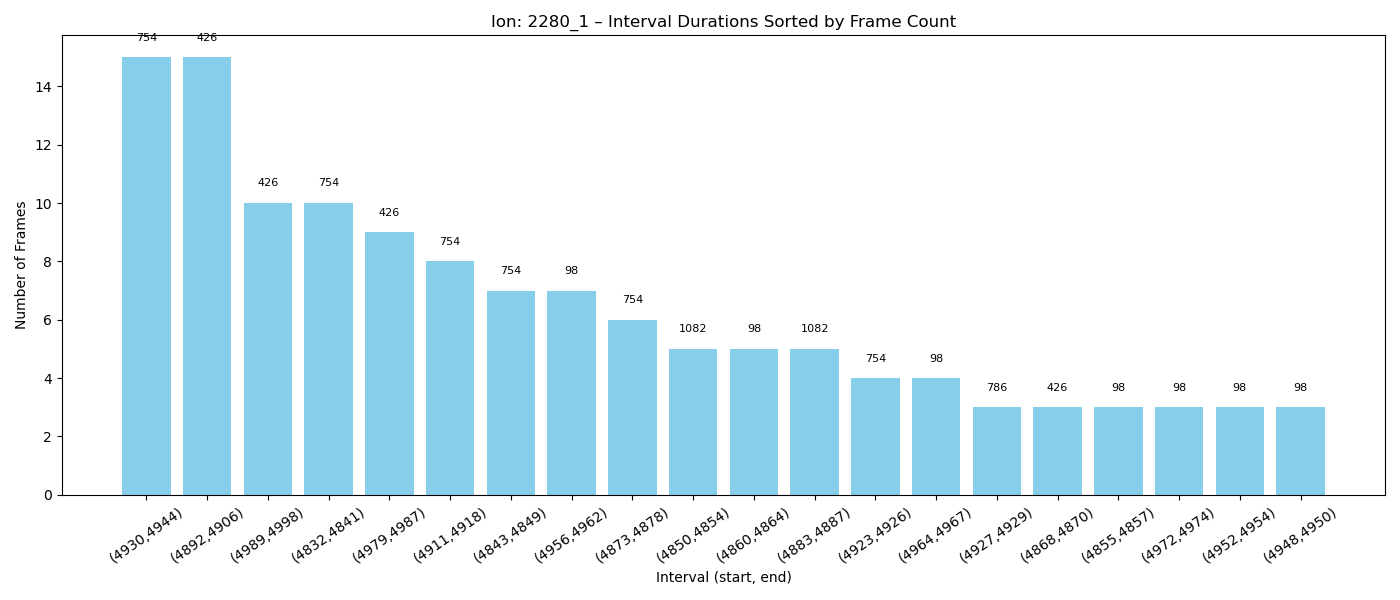
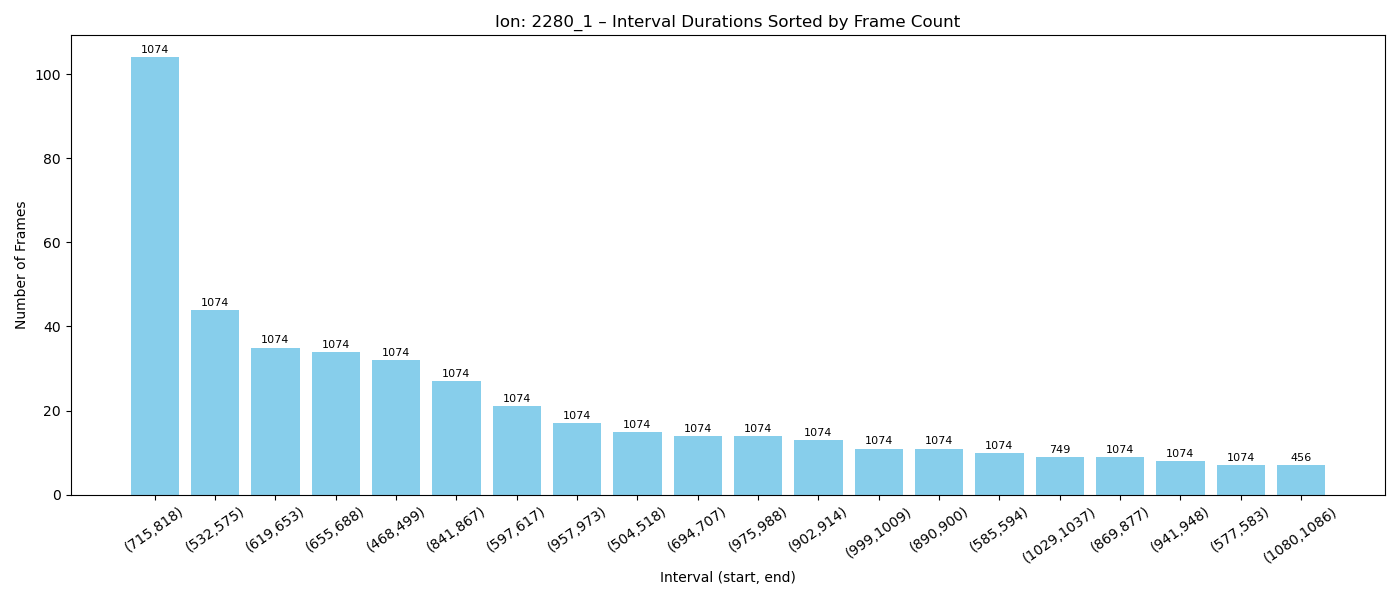
changes in ch2.json

diff --git a/analysis/ion_analysis.py b/analysis/ion_analysis.py
@@ -80,13 +80,13 @@ class IonPermeationAnalysis:
                     close_to_dipole = False
                     if channel_number == 2:
                         for resid in channel.lower_gate_residues:  # should be [130, 455, 780, 1105]
-                            # Select the five key atoms in the ASN side chain that contribute to electrostatic interactions
+                            # Select the five key atoms in the ASN side chain that contribute to electrostatic interactions CG OD1 ND2 HD21 HD22
                             asn_atoms = self.u.select_atoms(
-                                f"resid {resid} and name CG OD1 ND2 HD21 HD22"
+                                f"resid {resid}"
                             )
 
                             # Ensure that all 5 atoms are present (sometimes an atom might be missing in a corrupted frame)
-                            if len(asn_atoms) == 5:
+                            if len(asn_atoms) != 0:
                                 # Compute the distance between the ion and each ASN sidechain atom
                                 distances = np.linalg.norm(asn_atoms.positions - ion_pos, axis=1)
 
@@ -115,7 +115,8 @@ class IonPermeationAnalysis:
  #       if ion_id == 2231:
  #           print(f"'Frame: {frame}, channel_num: {channel_number}, upper_flag: {states[ion_id]['upper_flag']}, lower_flag: {states[ion_id]['lower_flag']}")
 
-        if frame == self.end_frame-1 and states[ion_id]['upper_flag'] == 1 and states[ion_id]['lower_flag'] == 0:
+        # if frame == self.end_frame-1 and states[ion_id]['upper_flag'] == 1 and states[ion_id]['lower_flag'] == 0:
+        if frame == self.end_frame and states[ion_id]['upper_flag'] == 1 and states[ion_id]['lower_flag'] == 0:
             states[ion_id]['lower_flag'] = 1
             states[ion_id]['lower_flag_frame'] = frame
 

diff --git a/main.py b/main.py
@@ -51,7 +51,7 @@ def main():
     # parser.add_argument("--top_file", default="/media/konsfr/KINGSTON/trajectory/Rep0/com_4fs.prmtop")
     # parser.add_argument("--traj_file", default="/media/konsfr/KINGSTON/trajectory/Rep0/GIRK_4kfm_NoCHL_Rep0_500ns.nc")
     # parser.add_argument("--channel_type", default="G12")
-    parser.add_argument("--channel_type", default="G2")
+    parser.add_argument("--channel_type", default="G12")
     args = parser.parse_args()
 
     data_path = "/home/data/Konstantina/ion-permeation-analyzer-results"
@@ -157,8 +157,8 @@ def main():
         start_frame = 0
         # start_frame = 3550
         # end_frame = 1000
-        # end_frame = 6800
-        end_frame = 1250
+        end_frame = 6800
+        # end_frame = 1250
         # end_frame = 3550
 
         top_file = Path("/home/data/Konstantina/GIRK12_WT/RUN2/com_4fs.prmtop")
@@ -167,7 +167,9 @@ def main():
         results_dir = Path(f"{data_path}/results_G12_RUN1")
         results_dir = Path(f"{data_path}/results_G12_3500_6800")
         results_dir = Path(f"{data_path}/results_G12_3550_6800_duplicates")
-        results_dir = Path(f"{data_path}/results_G12_0_1250")
+        # results_dir = Path(f"{data_path}/results_G12_3550_duplicates")
+        results_dir = Path(f"{data_path}/results_G12_duplicates")
+        # results_dir = Path(f"{data_path}/results_G12_0_1250")
 
     # start_frame = 5414
     # end_frame = 5553
@@ -321,7 +323,7 @@ def main():
 
     ch2_permeations = analyzer.fix_permeations(residue_clusters)
 
-    get_clean_ion_coexistence_table(ch2_permeations, coexisting_ions_results_dir)
+    get_clean_ion_coexistence_table(ch2_permeations, end_frame, coexisting_ions_results_dir)
 
     with open(results_dir / "ch2_fixed.json", "w") as f:
         json.dump(ch2_permeations, f, indent=2)

diff --git a/analysis/organizing_frames.py b/analysis/organizing_frames.py
@@ -539,7 +539,7 @@ def parse_ion_string(ion_str):
     return [x.strip() for x in ion_str.split(",") if x.strip()]
 
 
-def get_clean_ion_coexistence_table(ion_events, folder="./"):
+def get_clean_ion_coexistence_table(ion_events, end_frame, folder="./"):
     """
     Creates non-overlapping frame blocks where ions coexisted.
     Each block ends exactly where the next begins.
@@ -566,6 +566,14 @@ def get_clean_ion_coexistence_table(ion_events, folder="./"):
         else:
             if permeation_frames_ion_coexistence[ion_id]["permeation_frame"] < exit_frame:
                 permeation_frames_ion_coexistence[ion_id]["permeation_frame"] = exit_frame
+
+    # Remove ions that permeated exactly at the end frame
+    permeation_frames_ion_coexistence = {
+        ion_id: data
+        for ion_id, data in permeation_frames_ion_coexistence.items()
+        if data["permeation_frame"] < end_frame
+}
+
 
 
     # Step 2: Sort frames and chunk by unique ion sets
